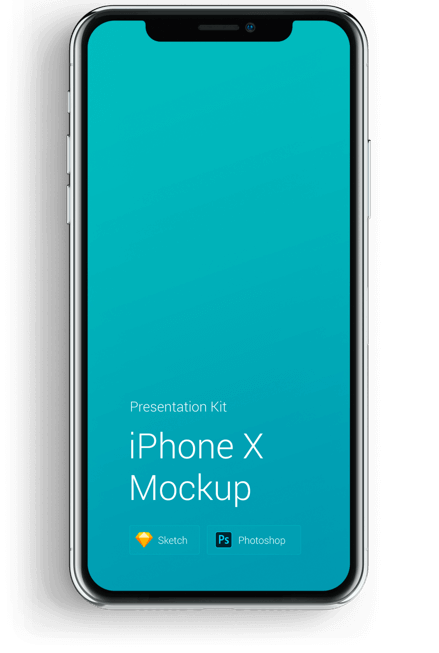
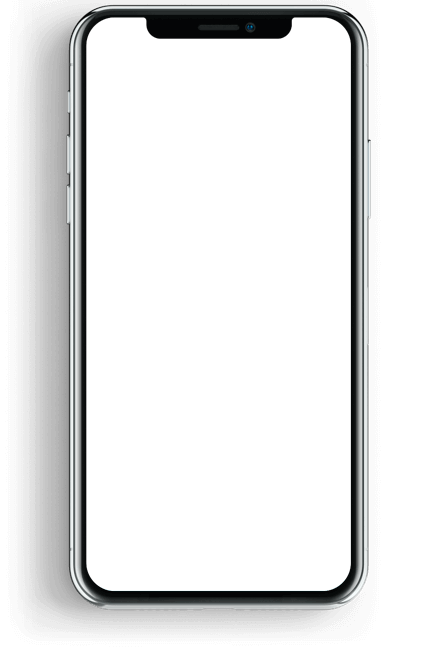
updated about section and block with  mobile and video

diff --git a/src/scss/sections/about.scss b/src/scss/sections/about.scss
@@ -47,11 +47,11 @@
         'ftr ftr ftr';
 
     grid-template-columns: 46% 8% 46%;
-    grid-template-rows: auto 40px auto;
+    grid-template-rows: minmax(auto, 653px) 40px auto;
   }
 
   @media screen and (min-width: $desktop) {
-    grid-template-columns: 48% 4% 48%;
+    grid-template-columns: 56% 4% 40%;
   }
 }
 
@@ -68,17 +68,17 @@
   @media screen and (min-width: $tablet) {
     align-items: center;
     display: flex;
-    font-size: 18px;
+    font-size: 20px;
     justify-content: flex-start;
-    line-height: 25px;
+    line-height: 30px;
     text-align: left;
   }
 
   @media screen and (min-width: $desktop) {
-    font-size: 20px;
-    line-height: 26px;
+    font-size: 26px;
+    line-height: 34px;
     margin: 0;
-    padding-left: 100px;
+    padding-left: 60px;
     padding-right: 0;
   }
 
@@ -88,49 +88,87 @@
   }
 }
 
+.about__telephoneOuter {
+  align-items: center;
+  display: flex;
+  justify-content: flex-end;
+  grid-area: tel;
+}
+
 .about__telephone {
+  cursor: pointer;
   display: block;
   grid-area: tel;
-  margin: 0 auto;
   position: relative;
   text-decoration: none;
 
   @media screen and (min-width: $tablet) {
-    background-image: url('/img/mobile.png');
-    background-position: 0 0;
-    background-repeat: no-repeat;
-    background-size: contain;
-    //height: 653px;
-    //width: 439px;
     width: 100%;
 
-    &:before {
+    &:after {
+      //original sizes
+      //height: 653px;
+      //width: 439px;
+
+      background-image: url('/img/mobile.png');
+      background-position: center;
+      background-repeat: no-repeat;
+      background-size: contain;
+      bottom: 0;
       content: '';
       display: block;
-      margin-top: 148%;
+      left: 0;
+      position: absolute;
+      right: 0;
+      top: 0;
+      width: 100%;
+      z-index: 2;
     }
   }
 }
 
-.about__telephone:hover .about__playIcon{
-  transform: scale(1.1, 1.1);
+.about__telephoneInnerContainer {
+  @media screen and (min-width: $tablet) {
+    //original sizes
+    //width: 266px;
+    //height: 575px;
+
+    background-image: url('/img/mobile_bg.jpg');
+    background-position: 0 0;
+    background-repeat: no-repeat;
+    background-size: cover;
+    display: block;
+    height: 88.05%;
+    left: 19.59%;
+    position: absolute;
+    top: 2.45%;
+    width: 60.59%;
+    z-index: 1;
+  }
 }
 
 .about__playIcon {
   height: 60px;
   margin: 0 auto;
-  transition: transform 0.25s ease-in-out;
+  position: relative;
+  transition: transform 0.25s ease;
   width: 60px;
+  z-index: 3;
 
   @media screen and (min-width: $tablet) {
+    border-radius: 50%;
     height: 120px;
     left: 50%;
+    margin-left: -60px;
+    margin-top: -60px;
     position: absolute;
-    top: 40%;
-    //transform: translate(-50%, -50%);
-    margin: -60px 0 0 -60px;
+    top: 50%;
     width: 120px;
   }
+}
+
+.about__telephone:hover .about__playIcon{
+  transform: scale(1.1, 1.1);
 }
 
 .about__footer {

diff --git a/src/js/about.js b/src/js/about.js
@@ -1,0 +1,70 @@
+import DEVICE_BREAKPOINTS from './device_breakpoints';
+import videoCode from './video_code';
+
+const ORIGIN_SIZES = {
+  HEIGHT: 653,
+  WIDTH: 439
+};
+
+const ORIGIN_RATIO = ORIGIN_SIZES.WIDTH / ORIGIN_SIZES.HEIGHT;
+
+let outer = document.querySelector('.about__telephoneOuter');
+let telephone = outer.querySelector('.about__telephone');
+let inner = outer.querySelector('.about__telephoneInnerContainer');
+
+function about() {
+  videoContainer();
+}
+
+function videoContainer() {
+  telephone.addEventListener('click', clickPlayHandler);
+
+  window.addEventListener('resize', function(){
+    setSizes();
+  });
+  setSizes();
+}
+
+function clickPlayHandler(event) {
+  // event.preventDefault();
+  // playVideo(event.currentTarget.getAttribute('href'));
+  // telephone.removeEventListener('click', clickPlayHandler);
+}
+
+function setSizes() {
+  if (window.innerWidth < DEVICE_BREAKPOINTS.TABLET) {
+    telephone.setAttribute('style', '');
+    return
+  }
+  let outerSizes = getActualOuterSizes();
+  let telephoneSizes = getTelephoneSizes(outerSizes);
+  telephone.setAttribute('style', `height:${telephoneSizes.height}px; width:  ${telephoneSizes.width}px`)
+}
+
+function getActualOuterSizes() {
+  let height = outer.offsetHeight;
+  let width = outer.offsetWidth;
+  let ration = width / height;
+  return {
+    height, width, ration
+  }
+}
+
+function getTelephoneSizes(outerSizes) {
+  let width, height;
+  if(ORIGIN_RATIO <= outerSizes.ration) {
+    height = outerSizes.height;
+    width = height * ORIGIN_RATIO;
+  } else {
+    width = outerSizes.width;
+    height = width / ORIGIN_RATIO;
+  }
+  return { height, width }
+}
+
+function playVideo(url) {
+  inner.innerHTML = videoCode(url, inner.offsetWidth, inner.offsetHeight);
+
+}
+
+export default about;

diff --git a/src/js/video_code.js b/src/js/video_code.js
@@ -1,0 +1,64 @@
+const REGEXPS = {
+  VIMEO: /vimeo/,
+  YOUTUBE: /youtube/,
+};
+
+function videoCode(url, width, height) {
+  let hosting = getVideoHostingFromUrl(url);
+  let html = '';
+  switch (hosting) {
+    case 'VIMEO':
+      html = createVimeo(url, width, height);
+      break;
+
+    case 'YOUTUBE':
+      html = createYoutube(url, width, height);
+      break;
+
+    default:
+      html = createUnknown();
+  }
+  return html;
+}
+
+function getVideoHostingFromUrl(url) {
+  return Object.keys(REGEXPS).find(function(key){
+    return REGEXPS[key].test(url);
+  });
+}
+
+function createVimeo(url, width, height) {
+  let id = url.split('/').pop();
+
+  return `
+    <iframe src="https://player.vimeo.com/video/${id}?autoplay=1" 
+            width="${width}" 
+            height="${height}" 
+            frameborder="0" 
+            webkitallowfullscreen  
+            mozallowfullscreen 
+            allowfullscreen 
+    >
+            
+    </iframe>`;
+}
+
+function createYoutube(url, width, height) {
+  let id = url.split('watch?v=').pop();
+
+  return `
+    <iframe width="${width}"
+            height="${height}"
+            src="https://www.youtube.com/embed/${id}"
+            frameborder="0"
+            allow="autoplay; encrypted-media"
+            allowfullscreen
+    >
+    </iframe>`;
+}
+
+function createUnknown() {
+  return '<p>Видео не работает</p>'
+}
+
+export default videoCode;

diff --git a/src/js/app.js b/src/js/app.js
@@ -2,6 +2,7 @@ import '../scss/app.scss';
 import '../pug/index.pug'
 
 import Welcome from './welcome'
+import About from './about'
 import SmoothScroll from './smooth_scroll'
 import Navigation from './menu'
 import Form from './form'
@@ -10,6 +11,7 @@ import TopBanksAchievements from './top_banks_achievements';
 
 document.addEventListener("DOMContentLoaded", function() {
   Welcome();
+  About();
   SmoothScroll();
   Navigation();
   Form();

diff --git a/src/js/top_banks_achievements.js b/src/js/top_banks_achievements.js
@@ -8,7 +8,7 @@ let current = 0;
 function topBanksAchievements() {
   fadeIn(items[current]);
 
-  let timer = setInterval(function(){
+  setInterval(function(){
     let next = getNextIndex();
     fadeOut(items[current]);
     fadeIn(items[next]);

diff --git a/src/js/welcome.js b/src/js/welcome.js
@@ -3,5 +3,5 @@ import $ from 'jquery'
 export default function () {
   setTimeout(function () {
     $('.welcome').fadeOut(1000);
-  }, 1000);
+  }, 1);
 };

diff --git a/src/js/device_breakpoints.js b/src/js/device_breakpoints.js
@@ -1,0 +1,7 @@
+const DEVICE_BREAKPOINTS = {
+  TABLET: 768,
+  DESKTOP: 1024,
+  WIDE_DESKTOP: 1280
+};
+
+export default DEVICE_BREAKPOINTS;
